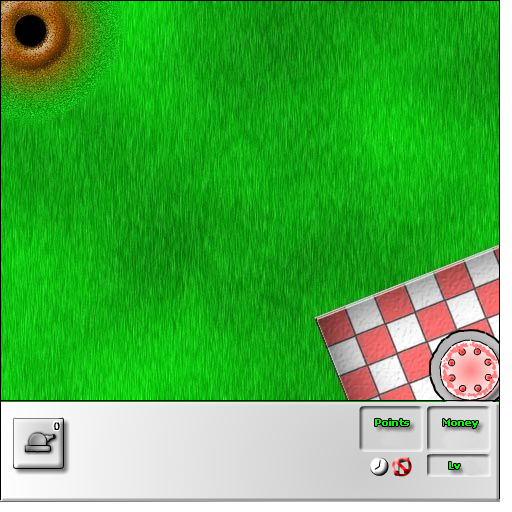
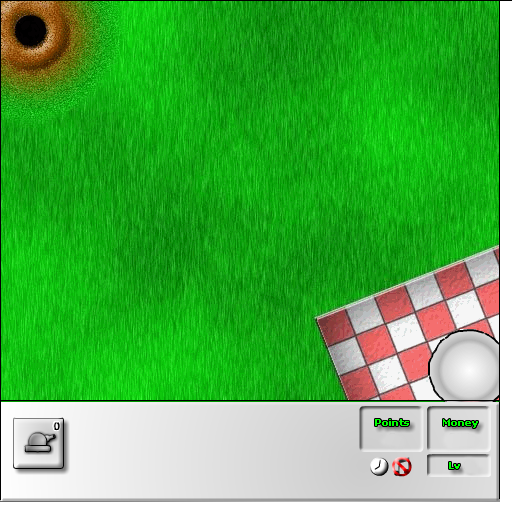
change bg. change ant hp display

Changed region(s): [[0.8125, 0.625, 1.0, 0.7812]]

diff --git a/antbuster/src/game/maingamestate.cpp b/antbuster/src/game/maingamestate.cpp
@@ -48,6 +48,9 @@ void MainGameState::OnEnter()
     bg->setAnimData(this->animResManager->getAnimData("data/bg0.xml"), 0); // 
     bg->setAnimData(this->animResManager->getAnimData("data/bg1.xml"), 1);
     bg->startAnim(int(60 * hge->Timer_GetTime()), 0);
+
+    cake = new cAni::Animation;
+    cake->setAnimData(this->animResManager->getAnimData("data/cake.xml"), 0);
 }
 
 void MainGameState::OnLeave()
@@ -56,6 +59,11 @@ void MainGameState::OnLeave()
     {
         delete bg;
         bg = 0;
+    }
+    if (cake)
+    {
+        delete cake;
+        cake = 0;
     }
     if (gui)
     {
@@ -157,6 +165,8 @@ void MainGameState::OnRender()
     int time = int(60 * hge->Timer_GetTime());
     hge->Gfx_SetTransform(0, 0, 400, 300, 0, 1, 1);
     bg->render(time, 0);
+    hge->Gfx_SetTransform(0, 0, 620, 417, 0, 1, 1);
+    cake->render(time / 10, 0);
     for (vector<Ant *>::iterator ant = ants.begin(); ant != ants.end(); ++ant)
     {
         (*ant)->render(time);

diff --git a/antbuster/src/entity/ant.cpp b/antbuster/src/entity/ant.cpp
@@ -11,8 +11,8 @@ Ant::Ant(cAni::AnimResManager &arm) : Entity(arm)
     dest.x = pos.x = float(rand() % border.GetWidth() + border.left);
     dest.y = pos.y = float(rand() % border.GetHeight() + border.top);
     angle = (float)rand() / RAND_MAX * 3.1415926f;
-    hp = 100;
     level = 1;
+    hp = this->getMaxHp();
     refCount = 0;
     memset(damageEffect, 0, sizeof(damageEffect));
     anim.setAnimData(animResManager.getAnimData("data/ant.xml"), 0);
@@ -25,7 +25,7 @@ void Ant::render(int time)
     hge->Gfx_SetTransform(0, 0, (int)pos.x, (int)pos.y, -angle, 1, 1);
     anim.render(time, 0);
     hge->Gfx_SetTransform(0, 0, (int)pos.x, (int)pos.y, 0, 1, 1);
-    hpAnim.render(hp, 0);
+    hpAnim.render(100.0f * hp / this->getMaxHp(), 0);
     hge->Gfx_SetTransform();
     float alpha = (dest - pos).Length() / 50;
     DWORD color = int(255 * alpha);

diff --git a/antbuster/include/entity/ant.h b/antbuster/include/entity/ant.h
@@ -34,6 +34,10 @@ public:
     {
         return hp;
     }
+    int getMaxHp() const
+    {
+        return int(4 * pow(1.1, level) - 1);
+    }
     float getSpeed() const;
     void applyDamage(DamageType damageType, int damage);
     int refCount; // do not delete the ant if refCount is not 0, this is used by missile like bullets

diff --git a/antbuster/include/game/maingamestate.h b/antbuster/include/game/maingamestate.h
@@ -56,6 +56,7 @@ protected:
 
     bool mouseLButtonDown;
     cAni::Animation *bg;
+    cAni::Animation *cake;
     hgeSprite *cursor;
     hgeGUI *gui;
     static MainGameState *s_Instance;
